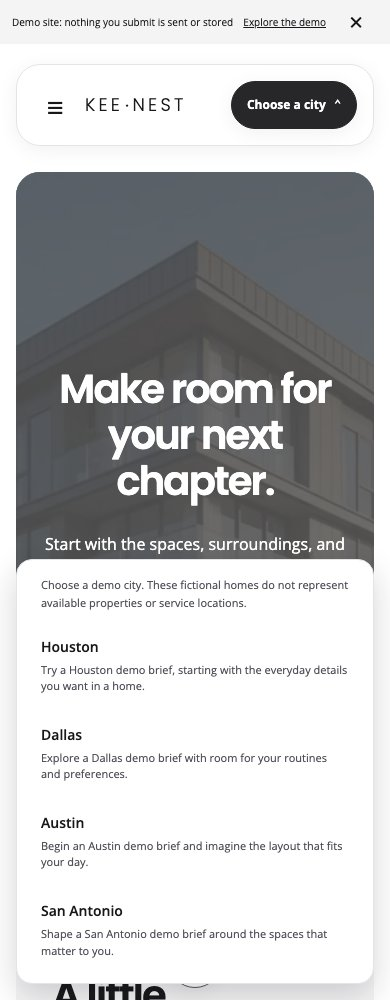
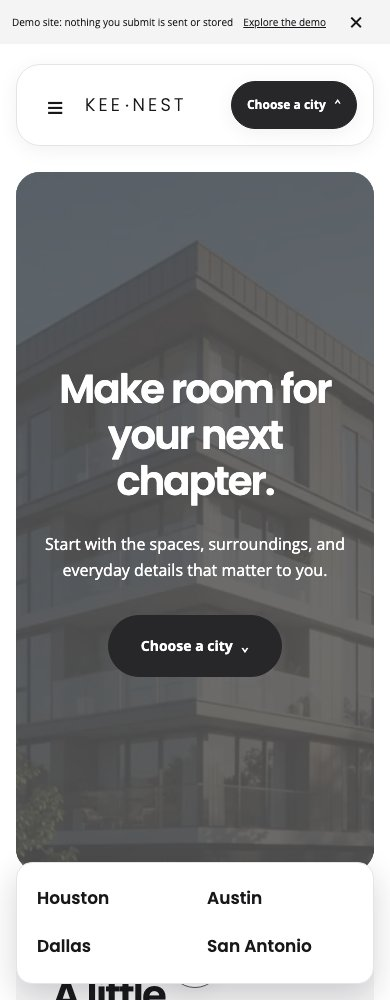
fix: align city picker layout with visual reference

Changed region(s): [[0.0308, 0.558, 0.9846, 0.961]]

diff --git a/src/styles/app.css b/src/styles/app.css
@@ -1711,7 +1711,7 @@ body {
 .hero-message .button {
   background: var(--hero-action);
   color: var(--on-hero-action);
-  border-color: var(--on-hero-action);
+  border-color: var(--hero-action);
 }
 .hero-message :focus-visible {
   outline-color: var(--white);
@@ -2148,6 +2148,8 @@ body,
   text-align: left;
 }
 .city-picker .city-trigger {
+  border-radius: var(--radius-btn);
+  display: flex;
   list-style: none;
   cursor: pointer;
   white-space: nowrap;
@@ -2162,7 +2164,7 @@ body,
 .city-options {
   position: absolute;
   right: 0;
-  top: calc(100% + 12px);
+  top: 100%;
   z-index: 10;
   width: 300px;
   padding: 12px;
@@ -2241,7 +2243,7 @@ body,
 .city-picker--hero .city-trigger {
   background: var(--hero-action);
   color: var(--on-hero-action);
-  border-color: var(--on-hero-action);
+  border-color: var(--hero-action);
 }
 .city-picker--hero .city-options {
   right: auto;
@@ -2578,30 +2580,19 @@ body,
   box-shadow: 0 12px 32px color-mix(in srgb, var(--ink) 18%, transparent);
 }
 .city-options nav {
-  display: flex;
-  flex-direction: column;
-  gap: 4px;
+  display: block;
+  columns: 2;
+  column-gap: 8px;
 }
 .city-options a {
   text-align: left;
-}
-.city-options a[data-selected] {
-  background: var(--band);
-}
-.city-options strong {
-  display: block;
+  min-height: 48px;
+  padding: 10px 8px;
+  break-inside: avoid;
+  font-family: var(--font-display);
+  font-size: 17px;
   font-weight: 600;
-}
-.city-blurb {
-  display: block;
-  font-size: 11px;
   line-height: 1.5;
-  color: var(--ink-2);
-  margin-top: 4px;
-}
-.city-selected {
-  color: var(--ink);
-  flex: none;
 }
 .city-chevron {
   transition: rotate 160ms ease;
@@ -2615,7 +2606,9 @@ body,
   font-size: 16px;
 }
 .city-picker--hero .city-options {
-  margin-left: -170px;
+  left: 0;
+  right: auto;
+  margin-left: 0;
 }
 .header-slot:has(.city-picker.is-open),
 .home-hero:has(.city-picker.is-open) {
@@ -2627,6 +2620,12 @@ body,
 }
 .navigation-drawer .city-trigger {
   width: 100%;
+}
+.navigation-drawer .city-options nav {
+  display: block;
+}
+.navigation-drawer .city-options a {
+  font-size: 15px;
 }
 .navigation-drawer .city-options {
   position: static;

diff --git a/src/components/ui/CityPicker.tsx b/src/components/ui/CityPicker.tsx
@@ -106,7 +106,7 @@ export function CityPicker({
         }
         transition={{ duration: reduced ? 0 : 0.16 }}
       >
-        <p>{cityPickerCopy.note}</p>
+        <p className="sr-only">{cityPickerCopy.note}</p>
         <nav id={id} role="menu" aria-label={cityPickerCopy.panel}>
           {CITIES.map((city) => (
             <Link
@@ -121,15 +121,9 @@ export function CityPicker({
                 onChoose?.();
               }}
             >
-              <span>
-                <strong>{city.name}</strong>
-                <span className="city-blurb">{city.blurb}</span>
-              </span>
+              {city.name}
               {selected === city.slug && (
-                <span className="city-selected">
-                  <span aria-hidden="true">✓</span>
-                  <span className="sr-only">{cityPickerCopy.selected}</span>
-                </span>
+                <span className="sr-only">{cityPickerCopy.selected}</span>
               )}
             </Link>
           ))}

diff --git a/QA.md b/QA.md
@@ -4,7 +4,7 @@ Verified locally on 2026-11-10 against `npm run preview`, using isolated Playwri
 
 ## Layout comparison at 894px
 
-The supplied comparison table is the acceptance reference for this revision. A fresh reference screenshot was not attached, so exact image-to-image fidelity cannot be certified.
+The supplied comparison table guided the overall composition. The subsequently attached header/hero screenshots guided the city-picker refinement below; the complete reference page is not available for an exact full-page comparison.
 
 | Element           | Implemented and measured                                                                                                                                          |
 | ----------------- | ----------------------------------------------------------------------------------------------------------------------------------------------------------------- |
@@ -86,3 +86,13 @@ Not verified: exact pixel comparison without the reference screenshot, physical 
 - Typecheck, 37 node tests, and build pass after each implementation/fix chunk. Tests cover unique city slugs, accepted/rejected city search input, and city filtering. Lighthouse was not rerun for this addendum; scores above describe the preceding layout revision.
 
 Evidence: [390px city sheet](qa/city-picker-390.jpg), [picker matrix](qa/city-picker-verification.json). Home captures above were refreshed with the city picker. Physical devices, Safari/Firefox, and screen-reader sessions were not tested.
+
+## Dropdown reference refinement
+
+The attached open-menu screenshots show a plain two-column city list. The picker now uses city names only, with no visible blurb, notice, selected tick, or selected background. Demo guidance and saved-selection information remain available to assistive technology; city blurbs remain on Explore.
+
+At 1440px the panel is 340px wide and 122px tall for our four demo entries. It opens directly below the button without a gap. The header panel's right edge matches the trigger's right edge; the hero panel's left edge matches the trigger's left edge. Buttons use the pill token with a solid theme fill. Header and hero retain Kee Nest copy, media, and the client's three palettes.
+
+Playwright verified both exact edge alignments, two columns, keyboard/Tab/Escape and outside dismissal, city routing/restoration, and 390/768/1440px containment across all palettes. Mobile keeps the compact two-column bottom sheet and inline drawer menu. Typecheck, 37 tests, and build pass. No deploy or Wrangler changes.
+
+Captures: [header at 1440px](qa/city-picker-header-1440.jpg), [hero at 1440px](qa/city-picker-hero-1440.jpg), [390px sheet](qa/city-picker-390.jpg). Only the four requested demo cities are included; reference copy, imagery, brand, city inventory, and blue palette were not imported.
